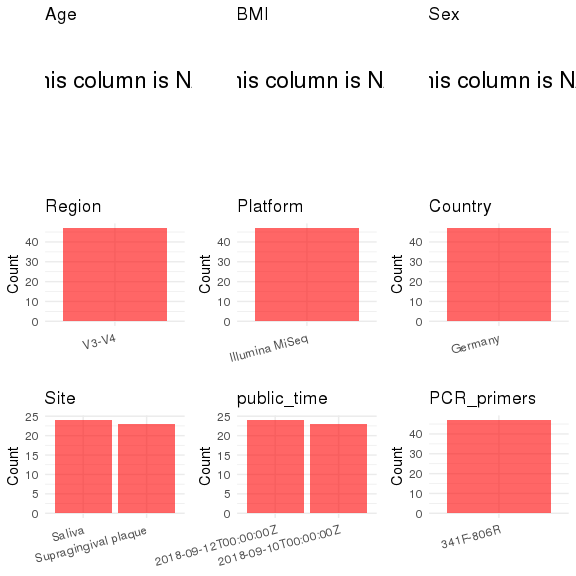
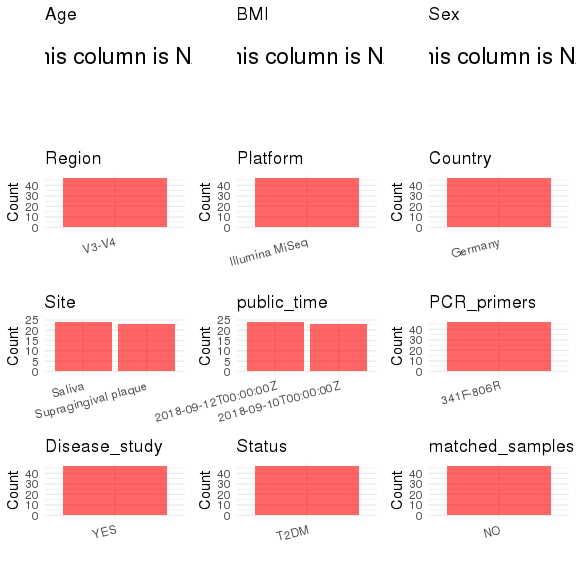
updata PRJEB28769 files

diff --git a/data/projects/PRJEB28369/metadata_curation.md b/data/projects/PRJEB28369/metadata_curation.md
@@ -255,7 +255,7 @@ create_simple_plots <- function(data) {
 plots <- create_simple_plots(plot_data)
 # grid.arrange(grobs = plots, ncol = 3, top = "Metadata Summary", align = "hv")
 plot_grid(plots$Age, plots$BMI, plots$Sex, plots$Region, plots$Platform, plots$Country, plots$Site,
-          plots$public_time, plots$PCR_primers,
+          plots$public_time, plots$PCR_primers, plots$Disease_study, plots$Status, plots$matched_samples,
           ncol = 3, align = "hv", axis = "lb")
 ```
 
@@ -270,7 +270,39 @@ metadata <- metadata[, c(
   "Region", "Platform", "Country", "Site", "public_time", 
   "PCR_primers", "title", "Disease_study", "Status", "matched_samples"
 )]
+head(metadata)
+```
 
+    ##   BioProject        Run         sample_name Age BMI Sex Region       Platform
+    ## 1 PRJEB28369 ERR2757873 OMB_Patient2_plaque  NA  NA  NA  V3-V4 Illumina MiSeq
+    ## 2 PRJEB28369 ERR2757874 OMB_Patient3_plaque  NA  NA  NA  V3-V4 Illumina MiSeq
+    ## 3 PRJEB28369 ERR2757875 OMB_Patient4_plaque  NA  NA  NA  V3-V4 Illumina MiSeq
+    ## 4 PRJEB28369 ERR2757876 OMB_Patient5_plaque  NA  NA  NA  V3-V4 Illumina MiSeq
+    ## 5 PRJEB28369 ERR2757877 OMB_Patient6_plaque  NA  NA  NA  V3-V4 Illumina MiSeq
+    ## 6 PRJEB28369 ERR2757878 OMB_Patient7_plaque  NA  NA  NA  V3-V4 Illumina MiSeq
+    ##   Country                 Site          public_time PCR_primers
+    ## 1 Germany Supragingival plaque 2018-09-10T00:00:00Z   341F-806R
+    ## 2 Germany Supragingival plaque 2018-09-10T00:00:00Z   341F-806R
+    ## 3 Germany Supragingival plaque 2018-09-10T00:00:00Z   341F-806R
+    ## 4 Germany Supragingival plaque 2018-09-10T00:00:00Z   341F-806R
+    ## 5 Germany Supragingival plaque 2018-09-10T00:00:00Z   341F-806R
+    ## 6 Germany Supragingival plaque 2018-09-10T00:00:00Z   341F-806R
+    ##                                                                                                                                         title
+    ## 1 Obesity alters composition and diversity of the oral microbiota in patients with type 2 diabetes mellitus independently of glycemic control
+    ## 2 Obesity alters composition and diversity of the oral microbiota in patients with type 2 diabetes mellitus independently of glycemic control
+    ## 3 Obesity alters composition and diversity of the oral microbiota in patients with type 2 diabetes mellitus independently of glycemic control
+    ## 4 Obesity alters composition and diversity of the oral microbiota in patients with type 2 diabetes mellitus independently of glycemic control
+    ## 5 Obesity alters composition and diversity of the oral microbiota in patients with type 2 diabetes mellitus independently of glycemic control
+    ## 6 Obesity alters composition and diversity of the oral microbiota in patients with type 2 diabetes mellitus independently of glycemic control
+    ##   Disease_study Status matched_samples
+    ## 1           YES   T2DM              NO
+    ## 2           YES   T2DM              NO
+    ## 3           YES   T2DM              NO
+    ## 4           YES   T2DM              NO
+    ## 5           YES   T2DM              NO
+    ## 6           YES   T2DM              NO
+
+``` r
 # Export the uniform metadata to a CSV file
 write.csv(metadata, file = "metadata.csv", quote = FALSE)
 ```
